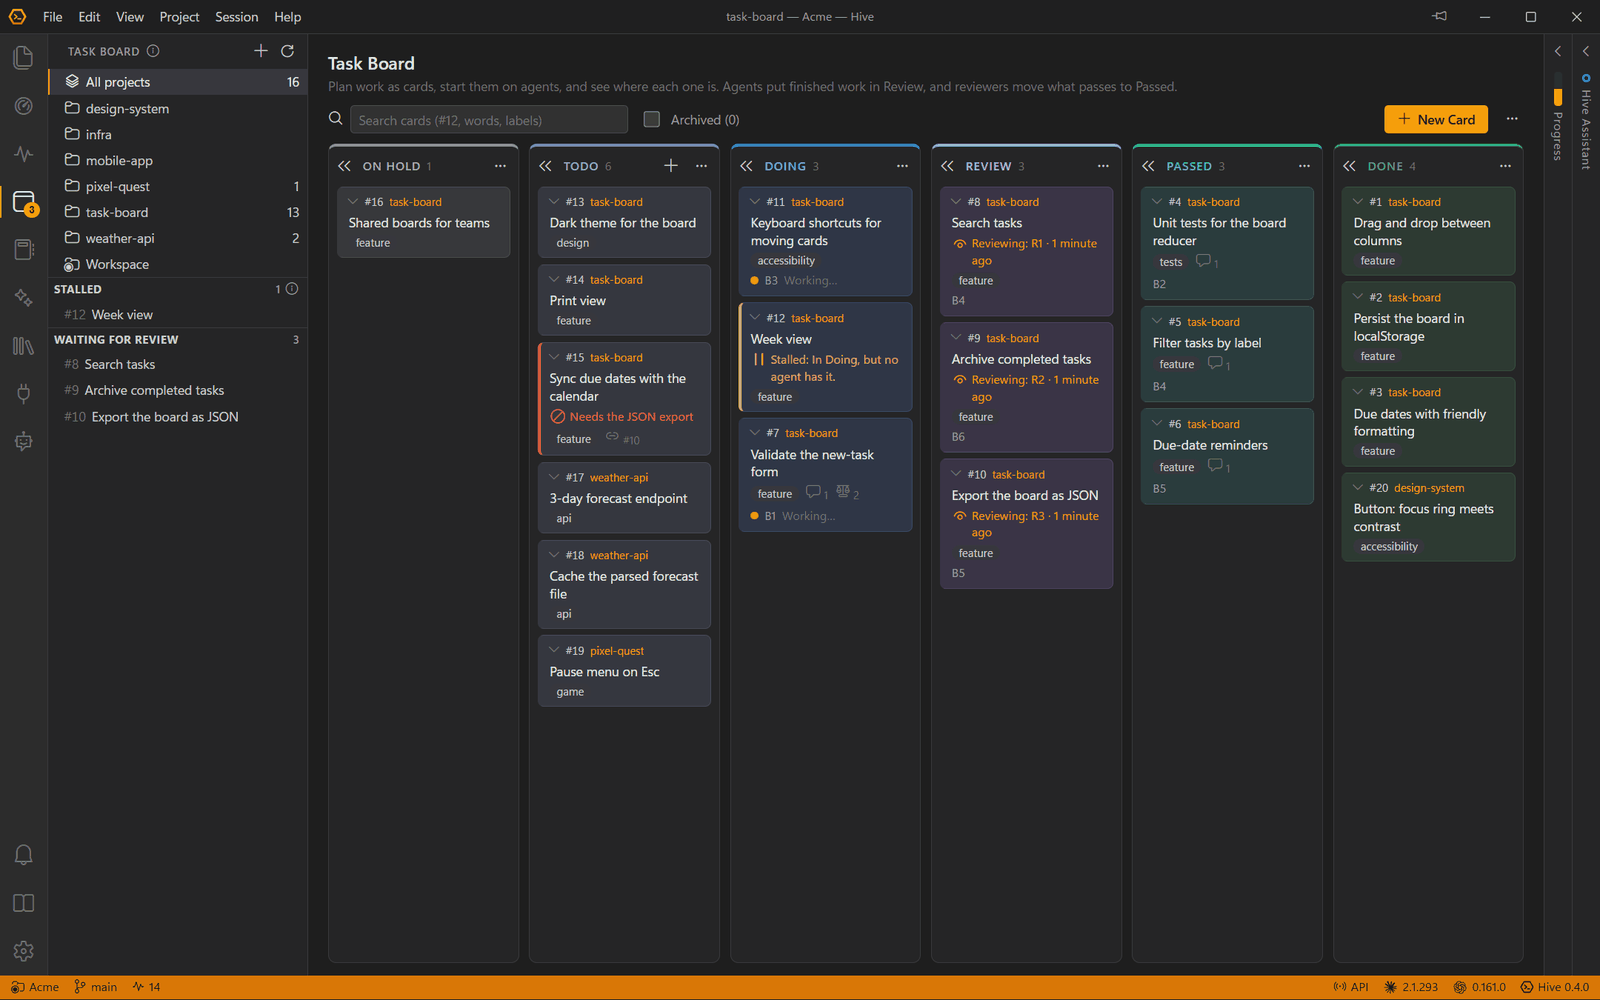
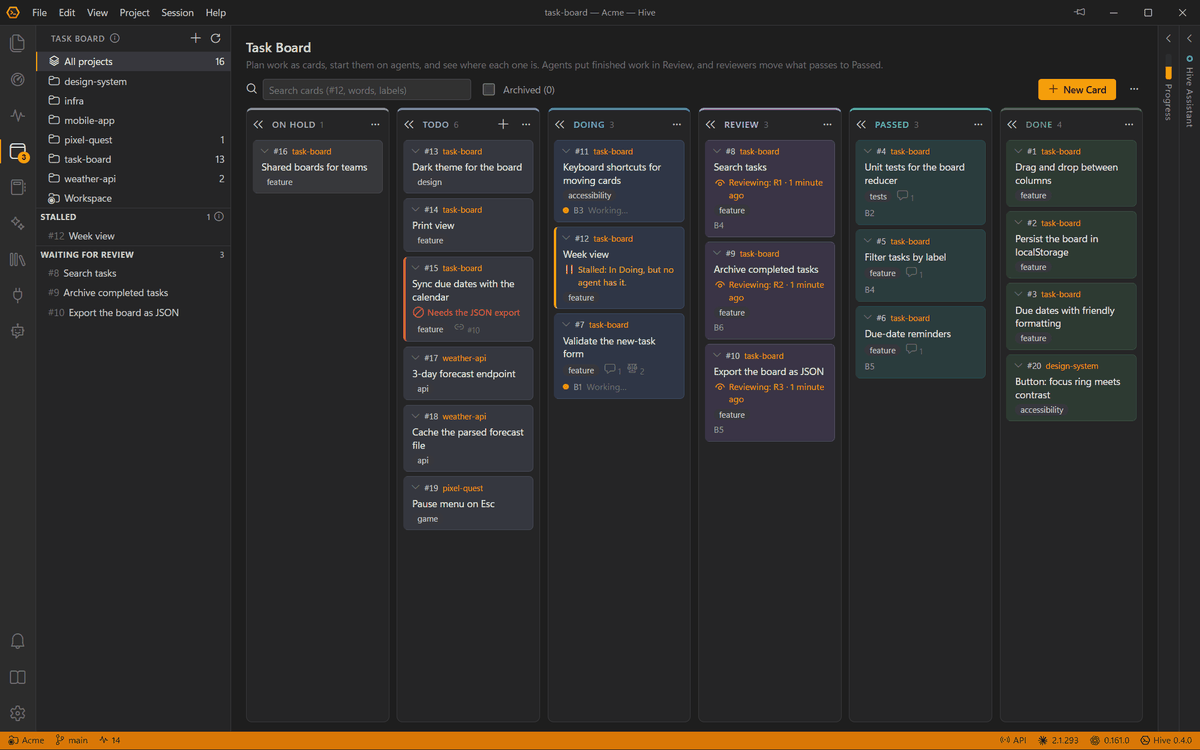
README: feature images as an even 2×2 grid (#415)
Four 16:10 images (board, card Decisions, progress merge slot, Assistant
modes) in an HTML table, each with its light/dark pair, all 1200×750.
Close-ups are centred on a padding in their theme's colour. The merge
shots are dropped, and a line links to the website.

diff --git a/README.md b/README.md
@@ -28,23 +28,38 @@ Hive looks and feels like a streamlined VS Code, but it is built around **agent 
 - **Files** — a file browser with an editor and previews for Markdown, CSV, HTML, SVG, images and PDFs; an Images tab for everything sent to the agents.
 - **Review** — git changes with side-by-side diffs; edit `CLAUDE.md`, `AGENTS.md` and Claude Code's auto memory, or share one `AGENTS.md` between providers.
 
-<picture>
-  <source media="(prefers-color-scheme: light)" srcset="docs/images/board-light.png">
-  <img src="docs/images/board.png" alt="The task board with On Hold, Todo, Doing, Review, Passed and Done columns: cards with their agents, three under review by Codex reviewers, a stalled card and a blocked one" width="49%">
-</picture>
-<img src="docs/images/card.png" alt="A card's dialog: its description, two decisions pinned above the comments, and a reviewer's failed review with two numbered findings" width="49%">
-<picture>
-  <source media="(prefers-color-scheme: light)" srcset="docs/images/progress-light.png">
-  <img src="docs/images/progress.png" alt="The Progress panel beside six working agents: one agent merging with the merge slot while two wait, a failed test run, a check run part of the way through its steps, and recent runs" width="49%">
-</picture>
-<picture>
-  <source media="(prefers-color-scheme: light)" srcset="docs/images/merge-light.png">
-  <img src="docs/images/merge.png" alt="The Changes tab on a builder's worktree, with the Merge dialog open: one commit to merge into main" width="49%">
-</picture>
-<picture>
-  <source media="(prefers-color-scheme: light)" srcset="docs/images/modes-light.png">
-  <img src="docs/images/modes.png" alt="The Hive Assistant's mode menu: Coordinator, Planner, QA triager and Release manager, each with what it puts first" width="49%">
-</picture>
+<table>
+  <tr>
+    <td width="50%">
+      <picture>
+        <source media="(prefers-color-scheme: light)" srcset="docs/images/board-light.png">
+        <img src="docs/images/board.png" alt="The task board with On Hold, Todo, Doing, Review, Passed and Done columns: cards with their agents, three under review by Codex reviewers, a stalled card and a blocked one" width="100%">
+      </picture>
+    </td>
+    <td width="50%">
+      <picture>
+        <source media="(prefers-color-scheme: light)" srcset="docs/images/card-light.png">
+        <img src="docs/images/card.png" alt="A card's dialog: its description, two decisions pinned above the comments, and a reviewer's failed review with two numbered findings" width="100%">
+      </picture>
+    </td>
+  </tr>
+  <tr>
+    <td width="50%">
+      <picture>
+        <source media="(prefers-color-scheme: light)" srcset="docs/images/progress-light.png">
+        <img src="docs/images/progress.png" alt="The Progress panel beside six working agents: one agent merging with the merge slot while two wait, a failed test run, a check run part of the way through its steps, and recent runs" width="100%">
+      </picture>
+    </td>
+    <td width="50%">
+      <picture>
+        <source media="(prefers-color-scheme: light)" srcset="docs/images/modes-light.png">
+        <img src="docs/images/modes.png" alt="The Hive Assistant's mode menu: Coordinator, Planner, QA triager and Release manager, each with what it puts first" width="100%">
+      </picture>
+    </td>
+  </tr>
+</table>
+
+More on the website: [surmise.it](https://surmise.it)
 
 - **Token and plan insight** — a project summary across providers, context size, cache state, re-cache estimate, compaction history, API-equivalent cost (estimated from editable price tables where a provider doesn't report it), and each plan's usage limits with warnings.
 - **Workspace and project metadata** — a committed `Workspace/.hive` for shared notes, skills and MCP servers; a git-excluded `Project/.hive` for settings, session history, images and transcript backups.
